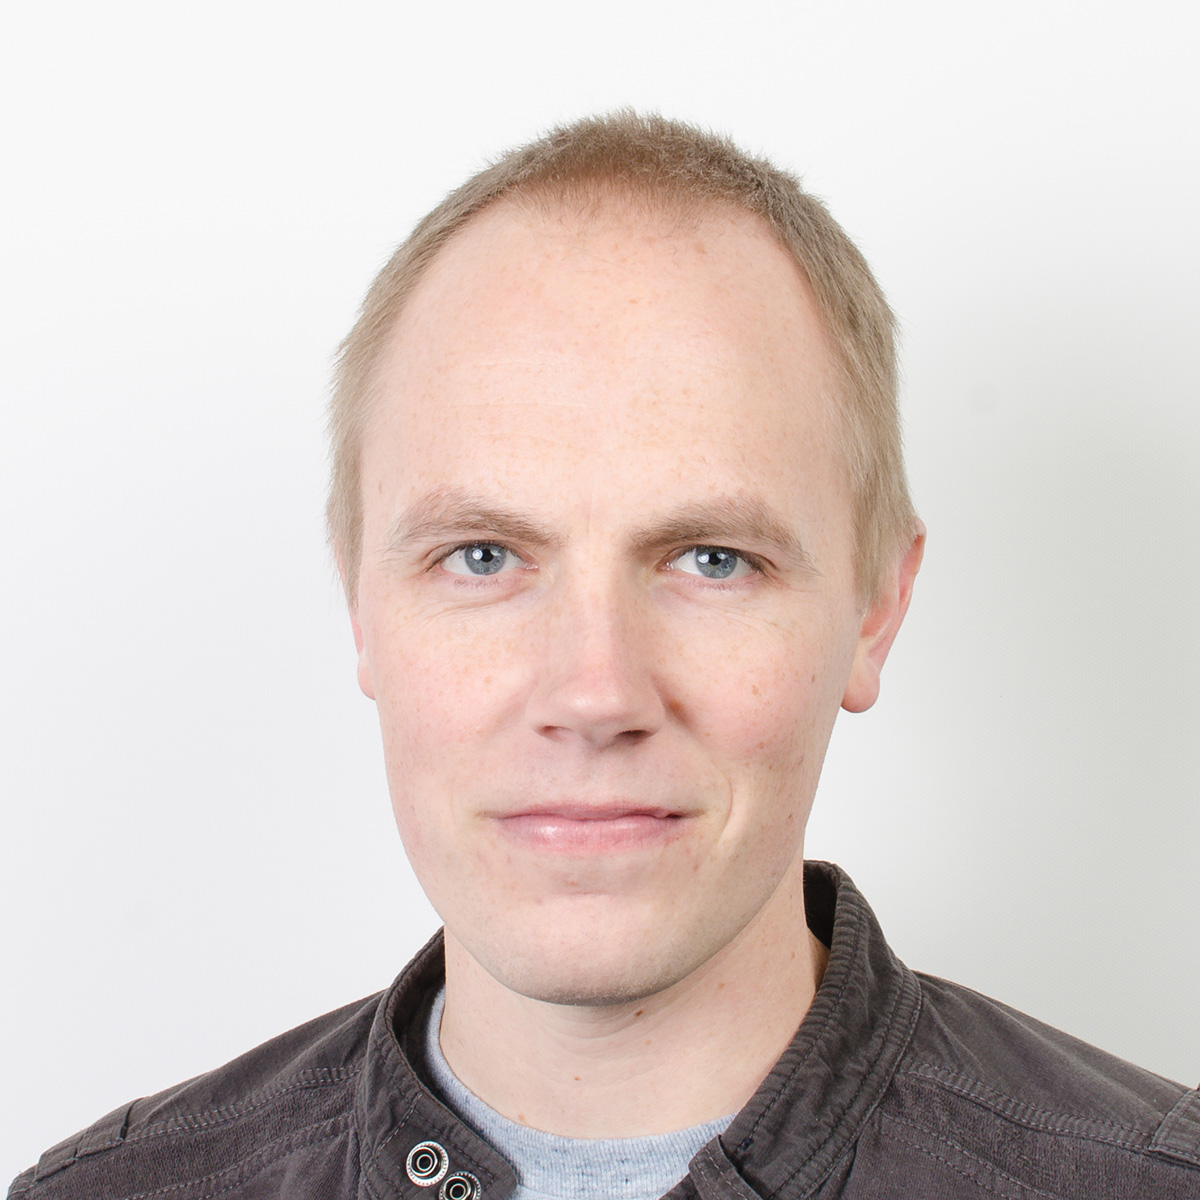
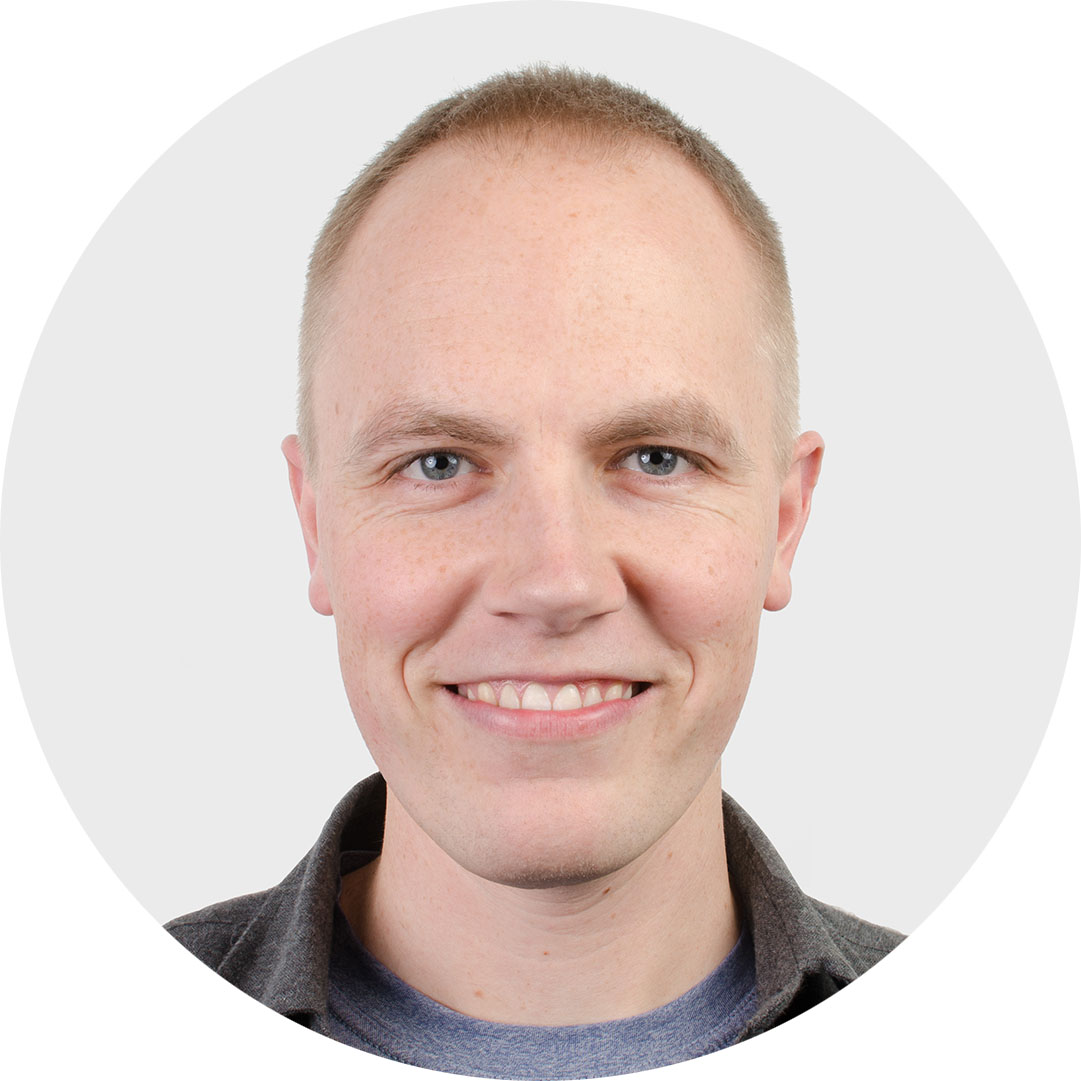
add new screenshots, update team photos

diff --git a/css/agency.css b/css/agency.css
@@ -171,7 +171,7 @@ header {
   text-align: center;
   color: #fff;
   background-attachment: scroll;
-  background-image: url(../img/dummy-header-bg.png);
+  background-image: url(../img/header-bg.png);
   background-position: center center;
   background-repeat: none;
   -webkit-background-size: cover;
